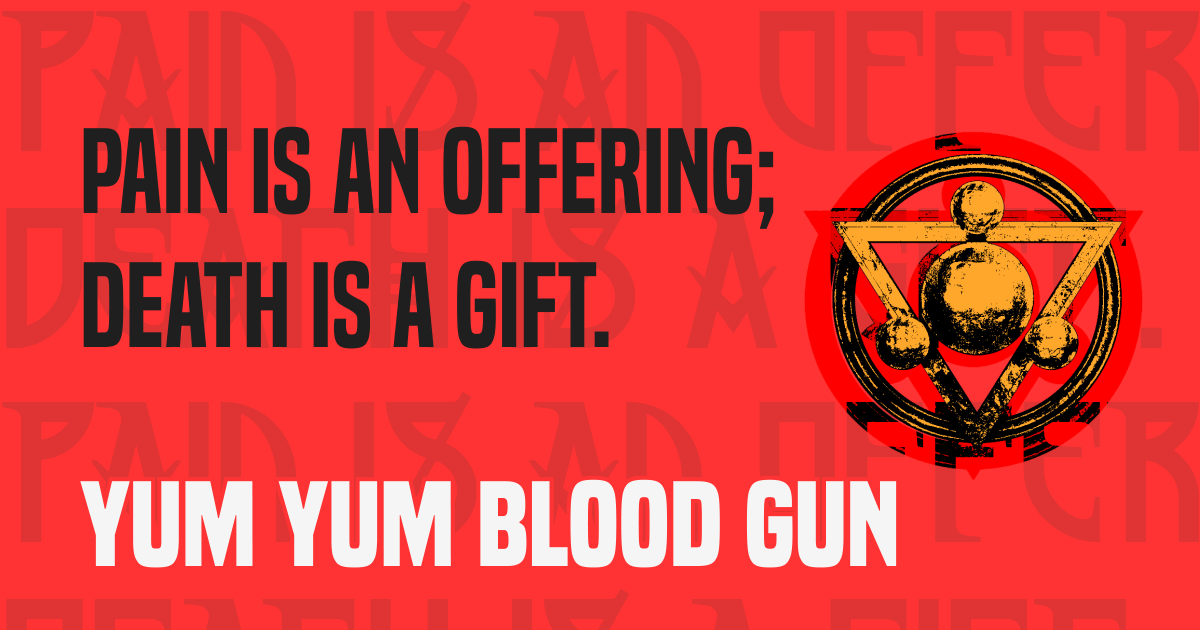
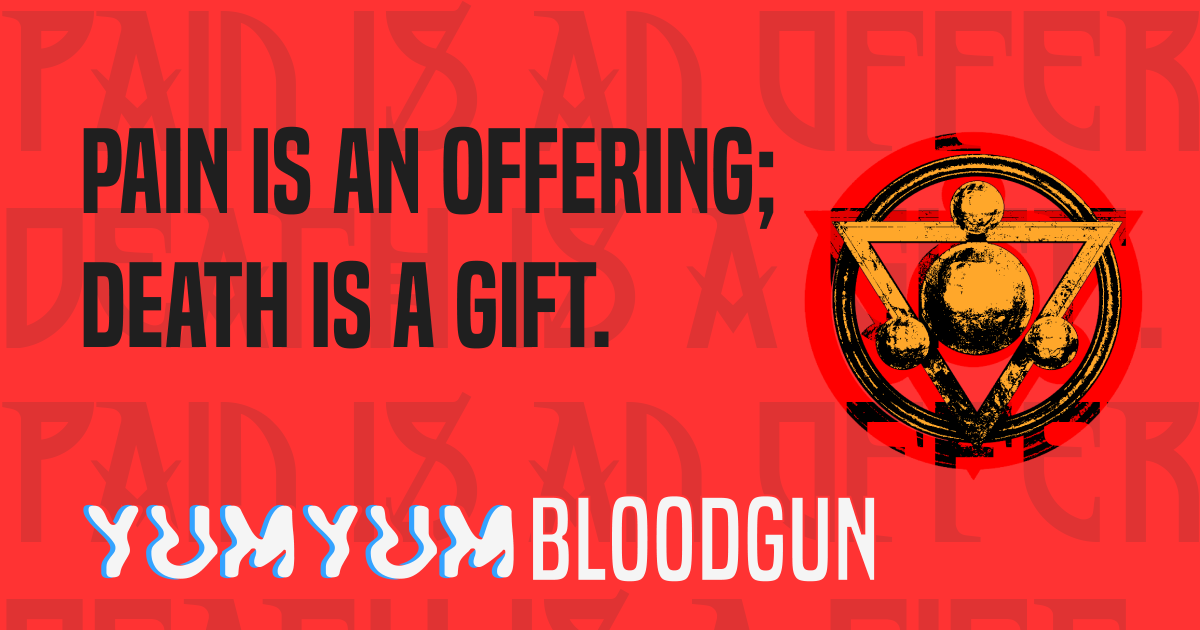
fix: seo and opengraph image

Changed region(s): [[0.0617, 0.754, 0.7708, 0.9349]]

diff --git a/next-seo.config.ts b/next-seo.config.ts
@@ -1,26 +1,26 @@
 import type { DefaultSeoProps } from "next-seo";
 
 const config: DefaultSeoProps = {
-  title: `Yum Yum Blood Gun`,
+  title: `YumYum Bloodgun`,
   description: `A fast-paced, 2-player fighting game that merges high skill combat with roguelike deckbuilder mechanics, in which you build your character as you fight.`,
   canonical: `https://yumyum.cool/`,
   openGraph: {
     type: `website`,
     locale: `en_US`,
     url: `https://yumyum.cool/`,
-    siteName: `Yum Yum Blood Gun`,
+    siteName: `YumYum Bloodgun`,
     images: [
       {
         url: `https://raw.githubusercontent.com/ronniekram/yum-yum-blood-gun/main/public/opengraph.png`,
         width: 1200,
         height: 630,
-        alt: `Yum Yum Blood Gun`,
+        alt: `YumYum Bloodgun`,
       },
     ],
   },
   twitter: {
     cardType: `summary_large_image`,
-    site: `Yum Yum Blood Gun`,
+    site: `YumYum Bloodgun`,
     handle: `@goblindelight`,
   },
 };
